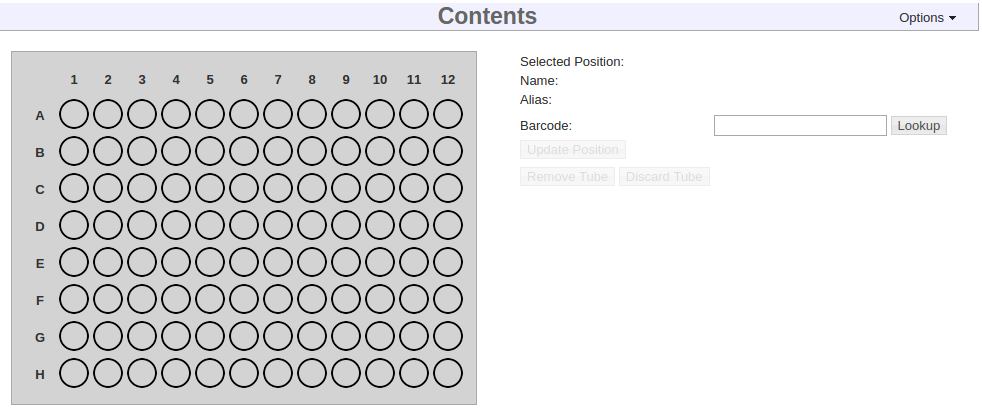
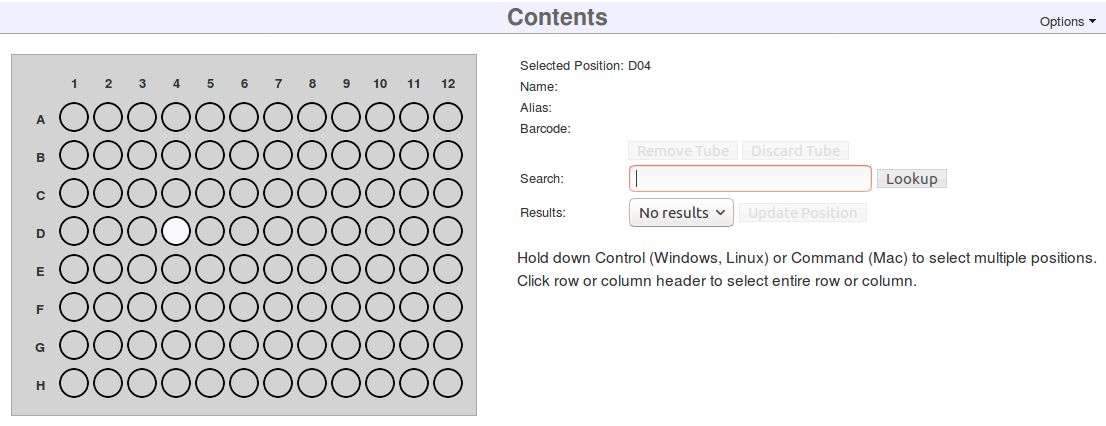
GLT-2076: added library receipt tutorial

diff --git a/_includes/libraries-from-samples.md b/_includes/libraries-from-samples.md
@@ -27,28 +27,28 @@ ones that end in `_D_1`:
   * _Library Name_: Leave blank as this will be filled in automatically after save.
   * _Library Alias_: Leave blank as this will be filled in automatically.
 {% if include.detailed == true %}
-  For more information about Library nomenclature, see
-  <a href="https://wiki.oicr.on.ca/display/MCPHERSON/LIMS+Guidelines#LIMSGuidelines-LibraryNomenclature" 
-  target="_new">Library Nomenclature</a>.
-  * _Matrix Barcode_: As before, usually this would be scanned by the hand
-    scanner. In this tutorial, enter matrix barcodes in the form (Short
-name)_(Tissue type)(Individual)_Li, e.g. `PROJ_P1_Li`.
-  * _Description_: Library (Tissue type)(individual), e.g. `Library P1`
-  * _Design_: EX
+        For more information about Library nomenclature, see
+        <a href="https://wiki.oicr.on.ca/display/MCPHERSON/LIMS+Guidelines#LIMSGuidelines-LibraryNomenclature" 
+        target="_new">Library Nomenclature</a>.
+    * _Matrix Barcode_: As before, usually this would be scanned by the hand
+      scanner. In this tutorial, enter matrix barcodes in the form
+      (Short name)_(Tissue type)(Individual)_Li, e.g. `PROJ_P1_Li`.
+    * _Description_: Library (Tissue type)(individual), e.g. `Library P1`
+    * _Design_: EX
 {% else %}
-  * _Description_: Library #, e.g. `Library 1`
+    * _Description_: Library #, e.g. `Library 1`
 {% endif %}
-  * _Platform_: Illumina
-  * _Type_: Paired End
-  * _Index Kit_: Nextera DNA Dual Index
-  * _Index 1_ and _Index 2_: Select any combination of indices you wish.
-    Select different indices for each library. Selecting the same index for two
-    different libraries will it unwise to pool those two libraries
-    together later.
-  * _Kit_: {% if include.detailed == true %}KAPA Hyper Prep{% else %}Any kit{% endif %}
-  * _Size (bp)_: 300
+    * _Platform_: Illumina
+    * _Type_: Paired End
+    * _Index Kit_: Nextera DNA Dual Index
+    * _Index 1_ and _Index 2_: Select any combination of indices you wish.
+      Select different indices for each library. Selecting the same index for two
+      different libraries will it unwise to pool those two libraries
+      together later.
+    * _Kit_: {% if include.detailed == true %}KAPA Hyper Prep{% else %}Any kit{% endif %}
+    * _Size (bp)_: 300
 {% if include.detailed == true %}
-  * _Volume_: 100
+    * _Volume_: 100
 {% endif %}
 1. Choose _Save_.
 

diff --git a/_includes/libraries-receipt.md b/_includes/libraries-receipt.md
@@ -1,0 +1,55 @@
+<a name="receipt"  href="#" id="toplink">top</a>
+
+# 3. Receiving Libraries
+
+Propagating libraries from samples is only possible if there are existing samples to propagate from,
+and only makes sense if the libraries were prepared in-house. Libraries may also be received without
+the samples. The sample information is still required, but it can all be entered in one step.
+
+{% if include.detailed == true %}
+When a library is entered in this way, the automatically-created sample hierarchy will include an
+Identity, Tissue, Stock, and Aliquot. Existing Identities and Tissues may be included in the hierarchy
+if they match the data entered.
+{% endif %}
+
+## 3.1 Entering received Libraries
+
+1. On the left hand menu under _Tracking_, click _Libraries_.
+1. Click the _Receive_ button at the top of the table.
+{% if include.detailed == true %}
+1. In the dialog, select _Aliquot Class_: gDNA (aliquot), and _Quantity_: 1, and click _Receive_
+{% else %}
+1. In the dialog, select _Quantity_: 1, and click _Receive_
+{% endif %}
+1. Select or enter the following data:
+{% if include.detailed == false %}
+  * _Sample Alias_: enter a sample alias like `PRO1_S#_#`. Replace the `#` symbols with numbers of your choosing.
+{% endif %}
+  * _Sample Type_: select `GENOMIC` from the drop-down.
+  * _Sci. Name_: Homo sapiens
+  * _Project_: Select your project from the drop-down.
+{% if include.detailed == true %}
+  * _External Name_: Enter `PROJ_ID10`, replacing the `PROJ` with your own project name. The
+  _Identity Alias_ column should change to show `First Receipt (PROJ)`.
+  * _Donor Sex_: select any option from the drop-down.
+  * _Tissue Origin_: select Pa (Pancreas) from the drop-down.
+  * _Tissue Type_: select P (Primary tumour) from the drop-down.
+  * _Times Received_: 1
+  * _Tube Number_: 1
+{% endif %}
+  * _Date of receipt_: select today's date
+{% if include.detailed == true %}
+  * _Design_: select WG from the drop-down
+{% endif %}
+  * _Platform_: select Illumina from the drop-down
+  * _Type_: select Paired End from the drop-down
+{% if include.detailed == false %}
+  * _Selection_: PCR
+  * _Strategy_: WGS
+{% endif %}
+  * _Index Kit_: select No indices from the drop-down
+  * _Kit_: select any option from the drop-down
+  * _Size (bp)_: 430
+1. Click _Save_ at the top right
+
+

diff --git a/_includes/libraries-qc.md b/_includes/libraries-qc.md
@@ -1,12 +1,12 @@
 <a name="qcs" href="#" id="toplink">top</a>
 
-# 3. Quality control
+# 4. Quality control
 There are three way to indicate library quality in MISO: 1)
 Enter quantitative QC values under the _Library QC_ section; 2) The overall 
 pre-sequencing quality flag _QC passed_; and 3) The post-sequencing quality
 control _Low quality library_.
 
-## 3.1 Library QC
+## 4.1 Library QC
 After measuring the insert size or concentration, this information can be
 entered into each library.
 
@@ -25,7 +25,7 @@ the following:
 1. Click _Save_.
 
 
-## 3.2 QC passed
+## 4.2 QC passed
 _QC Passed_ is a simple pass/fail flag for a library to decide if it is good
 enough for sequencing. If not measured, this can be left as "Unknown".
 
@@ -34,7 +34,7 @@ box and click the sample link.
 1. Change _QC passed_ from _Unknown_ to _True_.
 1. Click _Save_.
 
-## 3.3 Low Quality Sequencing
+## 4.3 Low Quality Sequencing
 Libraries can be marked as having low sequencing quality, which will be shown
 after the _Run_ exercises.
 

diff --git a/_includes/libraries-orders.md b/_includes/libraries-orders.md
@@ -1,12 +1,12 @@
 <a name="orders"  href="#" id="toplink">top</a>
 
-# 7. Ordering sequencing
+# 8. Ordering sequencing
 
 Orders are created on the pool to be sequenced, and include the quantity of sequencing
 required (counted in lanes/SMRT cells), and the sequencing chemistry
 required (on Illumina).
 
-## 7.1 Creating an Order
+## 8.1 Creating an Order
 
 1. Select the pools you wish to create orders for:
   * If you are still on the bulk pools page from section **6.1** do not navigate away from the page. Continue to step 2. Otherwise, select pools using the following:
@@ -24,7 +24,7 @@ required (on Illumina).
 The language will vary depending on the platform (_i.e._, PacBio containers
 will show _SMRTcell Count_ instead of _Lane Count_).
 
-## 7.2  Checking for unfulfilled orders
+## 8.2  Checking for unfulfilled orders
 The _Orders_ page is used to decide what needs to be sequenced.
 
 1. From the navigation menu, choose _Orders_.

diff --git a/plain-3-0-libraries.md b/plain-3-0-libraries.md
@@ -34,7 +34,6 @@ A _library_ is made from one sample for a single target _platform_ and
 has a specific _design_ associated with it that decides the _selection_
 and _strategies_ used to make the library. A library may also have _indices_
 (primers/sequencing barcodes/molecular IDs) and QC information.
-can aliquots into your inbox
 
 ## 2.0 Scan samples into your inbox
 
@@ -45,11 +44,13 @@ inbox.
 
 {% include libraries-from-samples.md detailed=page.is-detailed %}
 
+{% include libraries-receipt.md detailed=page.is-detailed %}
+
 {% include libraries-qc.md %}
 
 <a name="boxes" href="#" id="toplink">top</a>
 
-# 4. Scanning libraries into your outbox
+# 5. Scanning libraries into your outbox
 
 Scan the libraries you just created into the outbox for the sequencing team to
 use.

diff --git a/_includes/libraries-to-dilutions.md b/_includes/libraries-to-dilutions.md
@@ -1,6 +1,6 @@
 <a name="props2" href="#" id="toplink">top</a>
 
-# 5. Propagating libraries to dilutions
+# 6. Propagating libraries to dilutions
 
 A library cannot be directly loaded into a _lane_ in a _sequencing container_
 (flowcell/SMRTcell) in MISO. A dilution must be made and then many dilutions
@@ -9,7 +9,7 @@ A library cannot be directly loaded into a _lane_ in a _sequencing container_
 _Orders_ are requests for sequencing pools a certain number of times. They are
 used to keep track of sequencing progress for project management and book-keeping.
 
-## 5.1 Bulk creating Library Dilutions
+## 6.1 Bulk creating Library Dilutions
 Dilutions can be made in bulk from libraries.
 
 {% if include.detailed == true %}

diff --git a/_includes/inboxes.md b/_includes/inboxes.md
@@ -32,7 +32,9 @@ You can now fill the box with the tissues, stocks, aliquots, libraries, or
 pools that were made in previous steps. Collect the appropriate matrix tubes/barcodes now.
 
 1. Click on a position in the displayed _Contents_ grid.
-1. Enter a matrix barcode into the box on the right and click _Lookup_.
+1. Enter a matrix barcode into the _Search_ box on the right and click _Lookup_.
+Normally a hand scanner would be used. You can also search for items by their
+name or alias
 1. Click _Update Position_. 
   * &#9888; The _Save_ button at the top of the page does not work for
     individual positions, only for _Box Information_.

diff --git a/_includes/boxes.md b/_includes/boxes.md
@@ -32,8 +32,9 @@ You can now fill the box with the tissues, stocks, aliquots, libraries, or
 pools you made in previous steps.
 
 1. Click on a position in the displayed _Contents_ grid.
-1. Enter a matrix barcode into the box on the right and click _Lookup_.
-Normally a hand scanner would be used.
+1. Enter a matrix barcode into the _Search_ box on the right and click _Lookup_.
+Normally a hand scanner would be used. You can also search for items by their
+name or alias
 1. Click _Update Position_. 
   * &#9888; The _Save_ button at the top of the page does not work for
     individual positions, only for _Box Information_.

diff --git a/_includes/libraries-dils-to-pools.md b/_includes/libraries-dils-to-pools.md
@@ -1,6 +1,6 @@
 <a name="pools"  href="#" id="toplink">top</a>
 
-# 6. Creating Pools
+# 7. Creating Pools
 
 Pools are the last step for libraries before sequencing and represent the
 entity that is loaded onto the flowcell lane or SMRTcell. A "pool" can have one or more
@@ -12,7 +12,7 @@ library dilutions in it. Every lane of sequencing contains only one pool.
 <img src="pics/plain-flow-pool.svg"/>
 {% endif %}
 
-## 6.1 Bulk creating a Pool
+## 7.1 Bulk creating a Pool
 
 Here we will pool all of the dilutions we added previously to make a single pool
 of 4 dilutions.

diff --git a/_includes/outboxes.md b/_includes/outboxes.md
@@ -26,7 +26,7 @@ disappear from the original.
 1. In the current tab, go to the _Boxes_ page, find the _TUTORIAL\_OUTBOX_ box. This box was previously
 created by the MISO developers for the tutorial.
 1. Choose an empty position and enter one of your barcodes.
-1. Click _Lookup_ and _Update Position_.
+1. Click _Search_ and _Update Position_.
 1. Go back to your own Box and refresh the page. The sample was removed.
 1. Repeat this process for the rest of the samples/libraries that you are transferring to the next team.
 

diff --git a/3-0-libraries.md b/3-0-libraries.md
@@ -84,11 +84,13 @@ indices at a particular plate location. Once the libraries are sorted based on t
 parent sample's location, the indices can be copy-pasted in the order that the 
 robot requires.
 
+{% include libraries-receipt.md detailed=page.is-detailed %}
+
 {% include libraries-qc.md %}
 
 <a name="boxes" href="#" id="toplink">top</a>
 
-# 4. Scanning libraries into your outbox
+# 5. Scanning libraries into your outbox
 
 Scan the libraries you just created into the outbox for the sequencing team to
 use.
